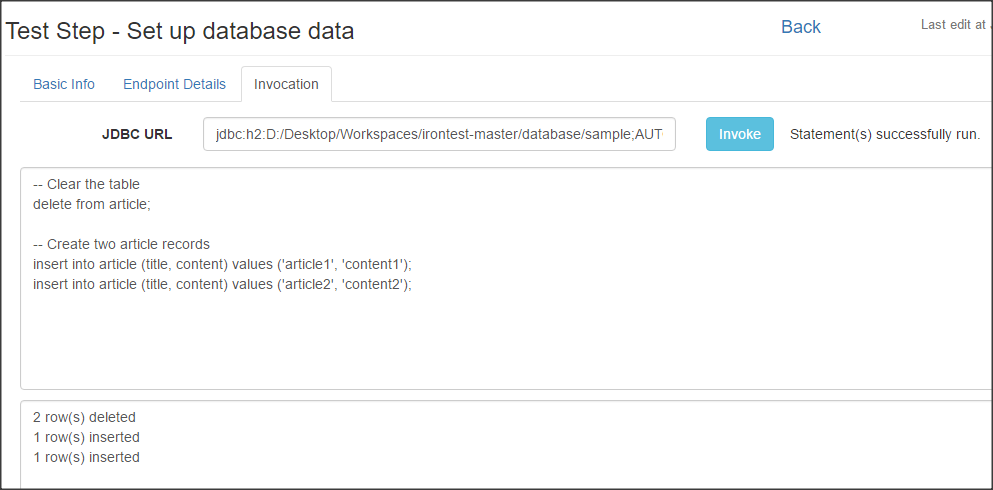
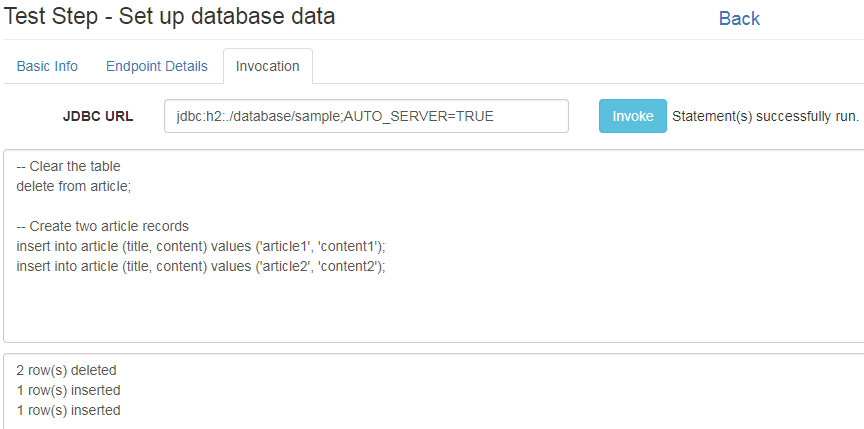
refine readme

diff --git a/README.md b/README.md
@@ -58,9 +58,11 @@ Though the UI is crossing browsers, Google Chrome is preferred as it is the main
 Open Iron Test home page (http://localhost:8081/ui). 
 
 ### Integrated SOAP Web Service Testing
-We are going to demo how to test a web service that updates an article in database by its title.
+We are going to demo how to test a web service that updates an article in database by its title. 
+
+The web service is the sample Article web service that is bundled with Iron Test. It does CRUD operations against the Article table in a sample H2 database under `<IronTest_Home>/database` directory. The sample database is automatically created when launching Iron Test for the first time.
  
-There will be three test steps 
+We are planning to have three test steps in our test case 
 ```
 1. Set up database data
 2. Call the web service operation updateArticleByTitle
@@ -68,7 +70,7 @@ There will be three test steps
 ```
 
 #### Create Test Case Outline
-First of all, create a test case by right clicking on a folder in the tree and selecting Create Test Case. Give it a name. The test case edit view shows as below.
+First of all, create the (empty) test case by right clicking on a folder in the tree and selecting Create Test Case. Give it a name. The test case edit view shows as below.
 
 ![New Test Case](screenshots/integrated-soap-testing/new-test-case.png)
 
@@ -83,7 +85,7 @@ Under the Test Steps tab, click Create dropdown button and select Database Step.
 #### Populate Step 1 
 Click the name of step 1 to open its edit view.
           
-Under the Endpoint Details tab, enter JDBC URL that will be used to connect to the sample database (automatically created when launching Iron Test for the first time). The format is `jdbc:h2:<IronTest_Home>/database/sample;AUTO_SERVER=TRUE`. Then enter Username and Password which can be found in `<IronTest_Home>/config.yml`.
+Under the Endpoint Details tab, enter JDBC URL `jdbc:h2:./database/sample;AUTO_SERVER=TRUE` which will be used by the test step to connect to the sample database. Here `./database/sample` in the URL equals to `<IronTest_Home>/database/sample`, as Iron Test application is launched from directory `<IronTest_Home>`. Then enter Username and Password which can be found in `<IronTest_Home>/config.yml`.
 
 Under the Invocation tab, enter below SQL script.
 ```
@@ -131,7 +133,7 @@ Click the Invoke button to try it out (run the query), like shown below.
 
 Click the JSON View tab to see the JSON representation of the SQL query result set.
 
-Click the Assertions button to open the assertions pane. In the assertions pane, click Create dropdown button and select `JSONPath Assertion` to create a JSONPath assertion. We want to assert the whole result set, so enter `$` into the JSONPath field and copy the JSON string from the JSON View to the Expected Value field. Click the Verify button to verify the assertion, as shown below. 
+Click the Assertions button to open the assertions pane. In the assertions pane, click Create dropdown button and select `JSONEqual Assertion` to create a JSONEqual assertion. Copy the JSON string from the JSON View to the Expected JSON field. Click the Verify button to verify the assertion, as shown below. 
 
 ![Database Check Query Result and Assertion](screenshots/integrated-soap-testing/database-check-query-result-and-assertion.png)
 
